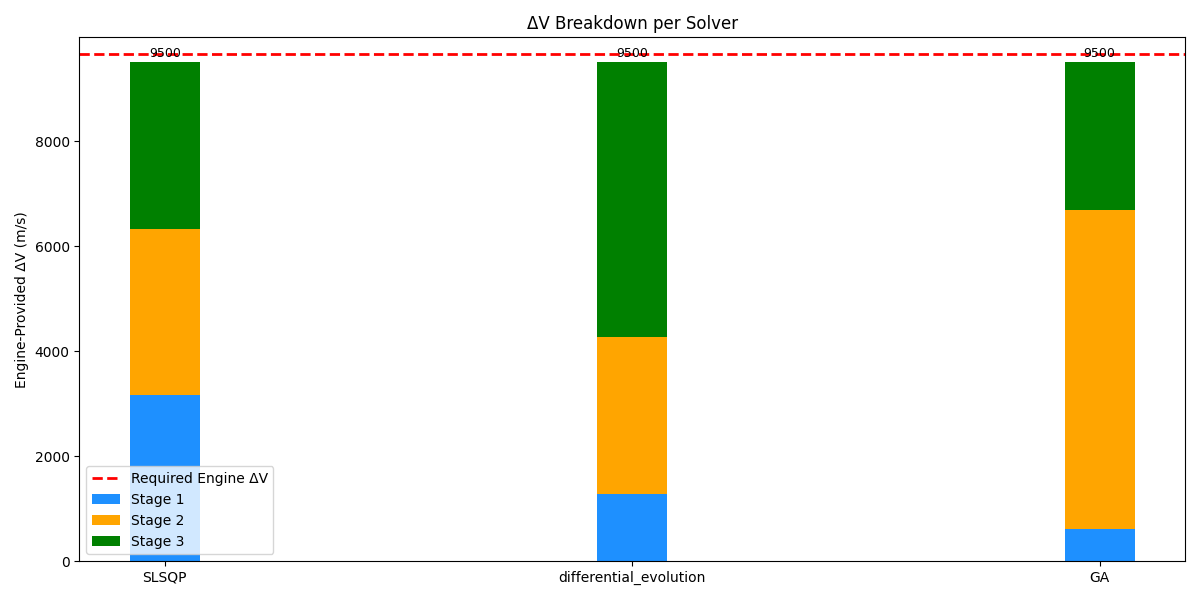
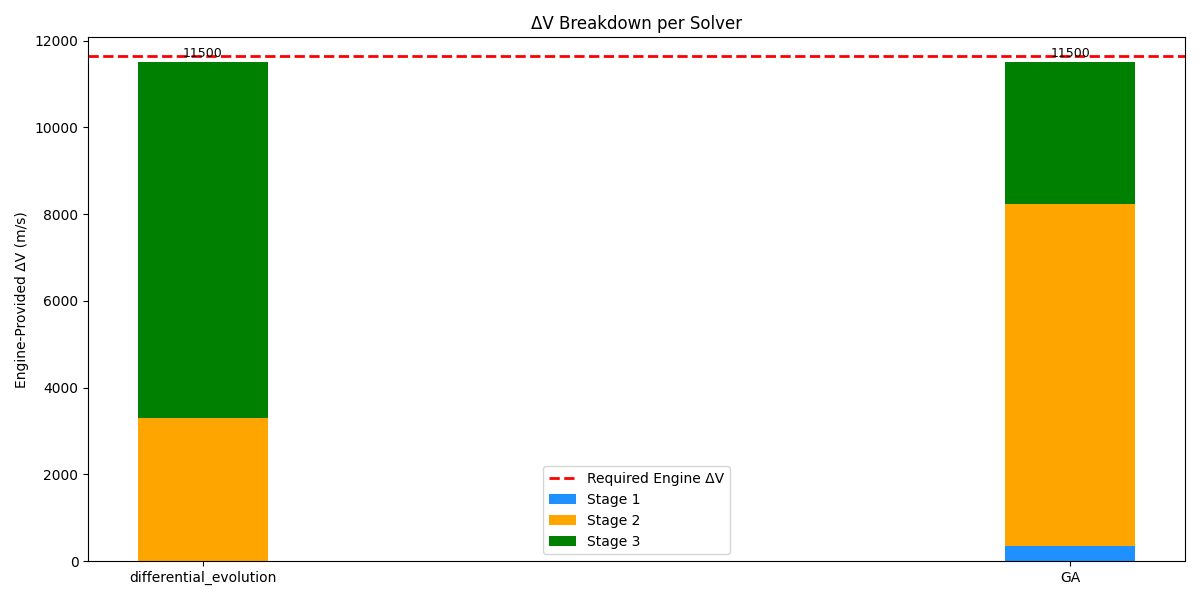
improved code

diff --git a/Notes Sheet/Choked Flow/main.tex b/Notes Sheet/Choked Flow/main.tex
@@ -1,0 +1,79 @@
+\documentclass{article}
+\usepackage{amsmath}
+
+\begin{document}
+
+\title{Derivation of the Choked Flow Equation Using Density}
+\author{}
+\date{}
+\maketitle
+
+\section{Standard Choked Flow Equation}
+
+The choked mass flow rate equation for an ideal gas, using the specific gas constant \( R_s \), is given by:
+
+\begin{equation}
+\dot{m} = A^* P_0 \sqrt{\frac{\gamma}{R_s T_0} \left( \frac{2}{\gamma+1} \right)^{\frac{\gamma+1}{\gamma-1}}}
+\end{equation}
+
+where:
+\begin{itemize}
+    \item \( \dot{m} \) = mass flow rate
+    \item \( A^* \) = throat area
+    \item \( P_0 \) = stagnation pressure
+    \item \( T_0 \) = stagnation temperature
+    \item \( R_s \) = specific gas constant (\( R/M \), where \( R \) is the universal gas constant and \( M \) is the molar mass)
+    \item \( \gamma \) = heat capacity ratio
+\end{itemize}
+
+\section{Expressing \( R_s \) in Terms of Density}
+
+From the ideal gas law:
+
+\begin{equation}
+P = \rho R_s T
+\end{equation}
+
+At stagnation conditions:
+
+\begin{equation}
+P_0 = \rho_0 R_s T_0
+\end{equation}
+
+Rearranging for \( R_s \):
+
+\begin{equation}
+R_s = \frac{P_0}{\rho_0 T_0}
+\end{equation}
+
+\section{Substituting \( R_s \) into the Choked Flow Equation}
+
+Substituting \( R_s \) from equation (3) into equation (1):
+
+\begin{equation}
+\dot{m} = A^* P_0 \sqrt{\frac{\gamma}{\frac{P_0}{\rho_0 T_0} T_0} \left( \frac{2}{\gamma+1} \right)^{\frac{\gamma+1}{\gamma-1}}}
+\end{equation}
+
+Simplifying:
+
+\begin{equation}
+\dot{m} = A^* P_0 \sqrt{\frac{\gamma \rho_0}{P_0} \left( \frac{2}{\gamma+1} \right)^{\frac{\gamma+1}{\gamma-1}}}
+\end{equation}
+
+Since \( P_0 / P_0 = 1 \), we obtain:
+
+\begin{equation}
+\dot{m} = A^* \sqrt{\gamma \rho_0 P_0 \left( \frac{2}{\gamma+1} \right)^{\frac{\gamma+1}{\gamma-1}}}
+\end{equation}
+
+\section{Final Form Using Density}
+
+The final equation in terms of density is:
+
+\begin{equation}
+\dot{m} = A^* \sqrt{\gamma \rho_0 P_0 \left( \frac{2}{\gamma+1} \right)^{\frac{\gamma+1}{\gamma-1}}}
+\end{equation}
+
+This confirms that the choked flow equation can be rewritten in terms of density using the ideal gas law.
+
+\end{document}

diff --git a/Stage_Opt/report.tex b/Stage_Opt/report.tex
@@ -7,15 +7,17 @@
 
 \section{Payload Fraction}
 \includegraphics[width=\textwidth]{payload_fraction.png}
+                
+\section{Payload Fraction}
+\includegraphics[width=\textwidth]{dv_breakdown.png}
 
 \section{Results}
 \begin{tabular}{lccc}
 \hline
 Method & Time (s) & Payload Fraction \\
 \hline
-SLSQP & 0.0000 & 0.0232 \\
-differential_evolution & 6.4679 & 0.0264 \\
-GA & 0.9358 & 0.0175 \\
+differential_evolution & 9.4996 & 0.0247 \\
+GA & 0.9544 & 0.0008 \\
 
 \hline
 \end{tabular}

diff --git a/Stage_Opt/payload_optimization.py b/Stage_Opt/payload_optimization.py
@@ -288,6 +288,9 @@ def main():
 
 \section{Payload Fraction}
 \includegraphics[width=\textwidth]{payload_fraction.png}
+                
+\section{Payload Fraction}
+\includegraphics[width=\textwidth]{dv_breakdown.png}
 
 \section{Results}
 \begin{tabular}{lccc}
